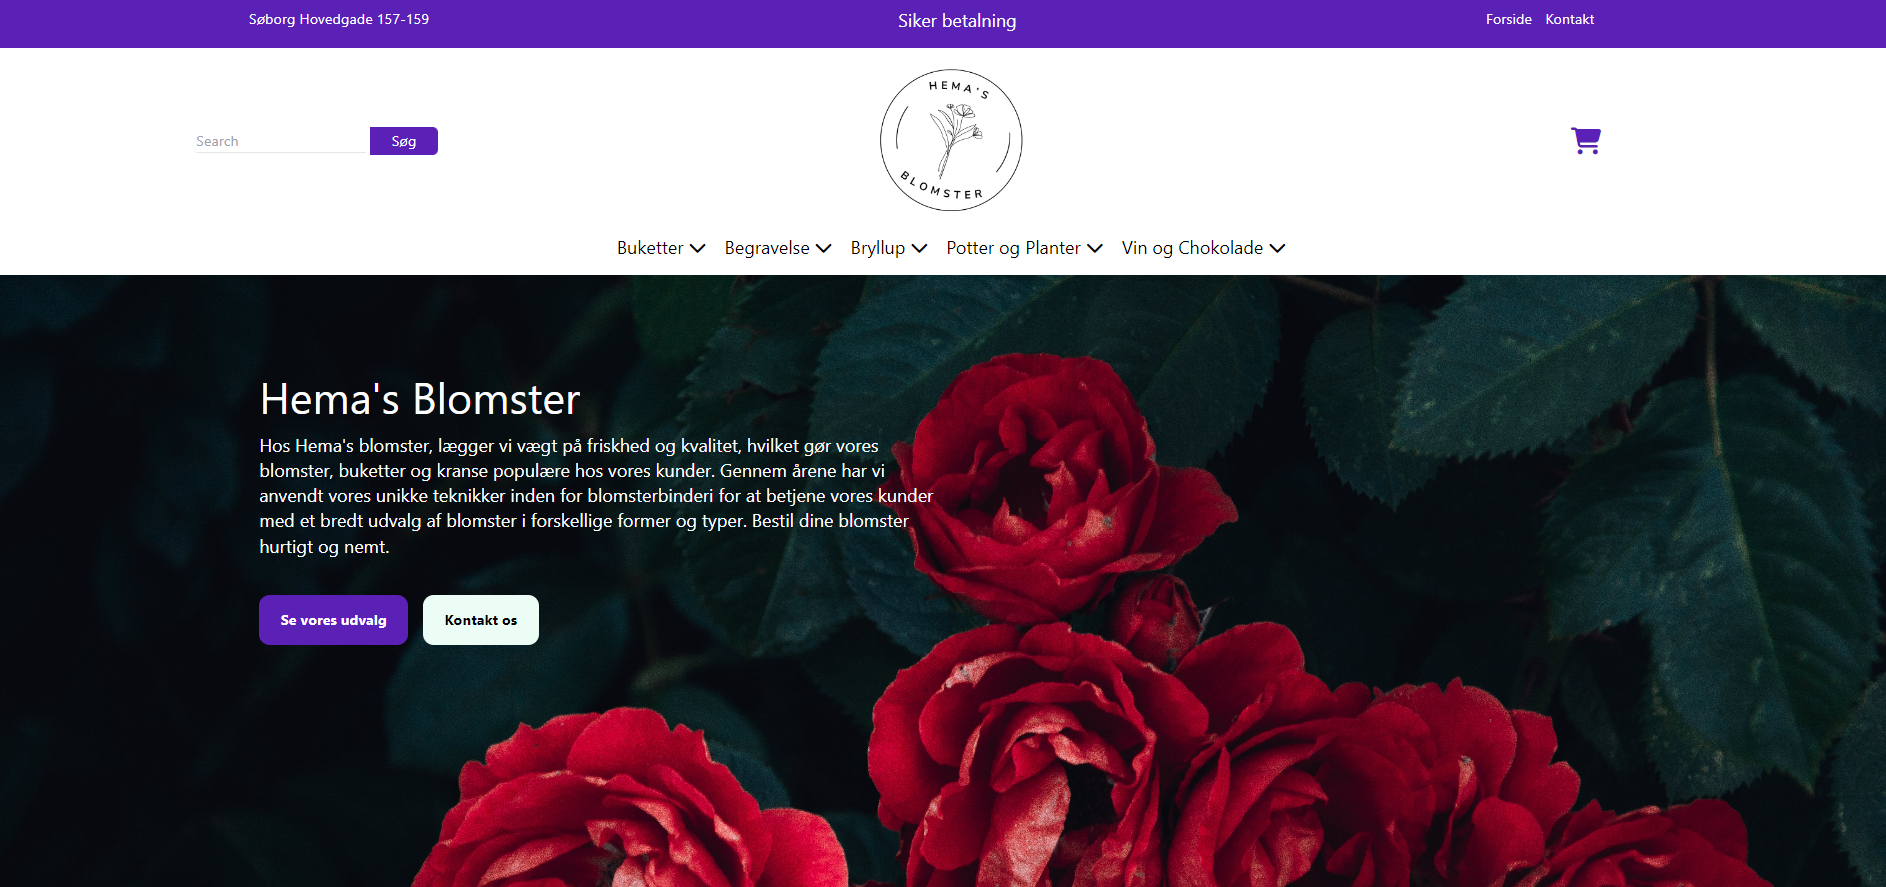
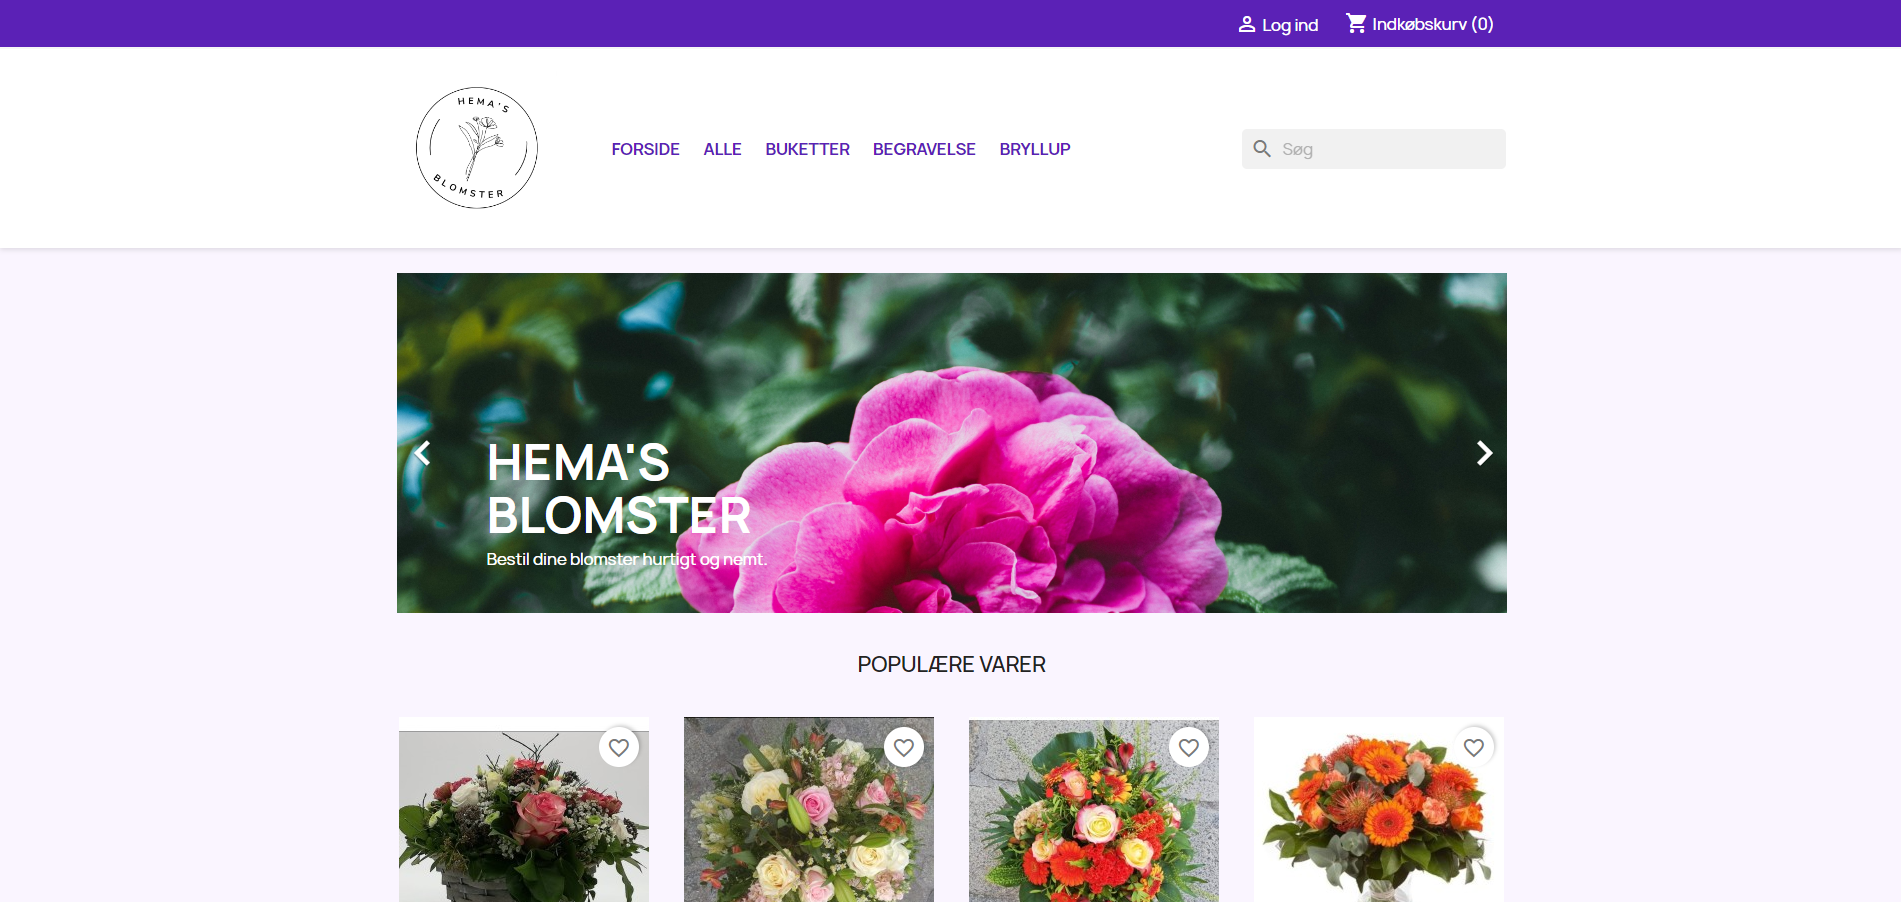
update img and url

diff --git a/src/components/Works.jsx b/src/components/Works.jsx
@@ -86,7 +86,7 @@ function Works() {
               </span>
               <p className="text-center">A Webshop build with PrestaShop</p>
               <div className="pt-8 text-center">
-                <a href="www.hemasblomster.dk">
+                <a href="https://hemasblomster.dk/">
                   <button className="text-center rounded-lg px-4 py-3 m-2 bg-white text-gray-700 font-bold text-lg">
                     Demo
                   </button>
